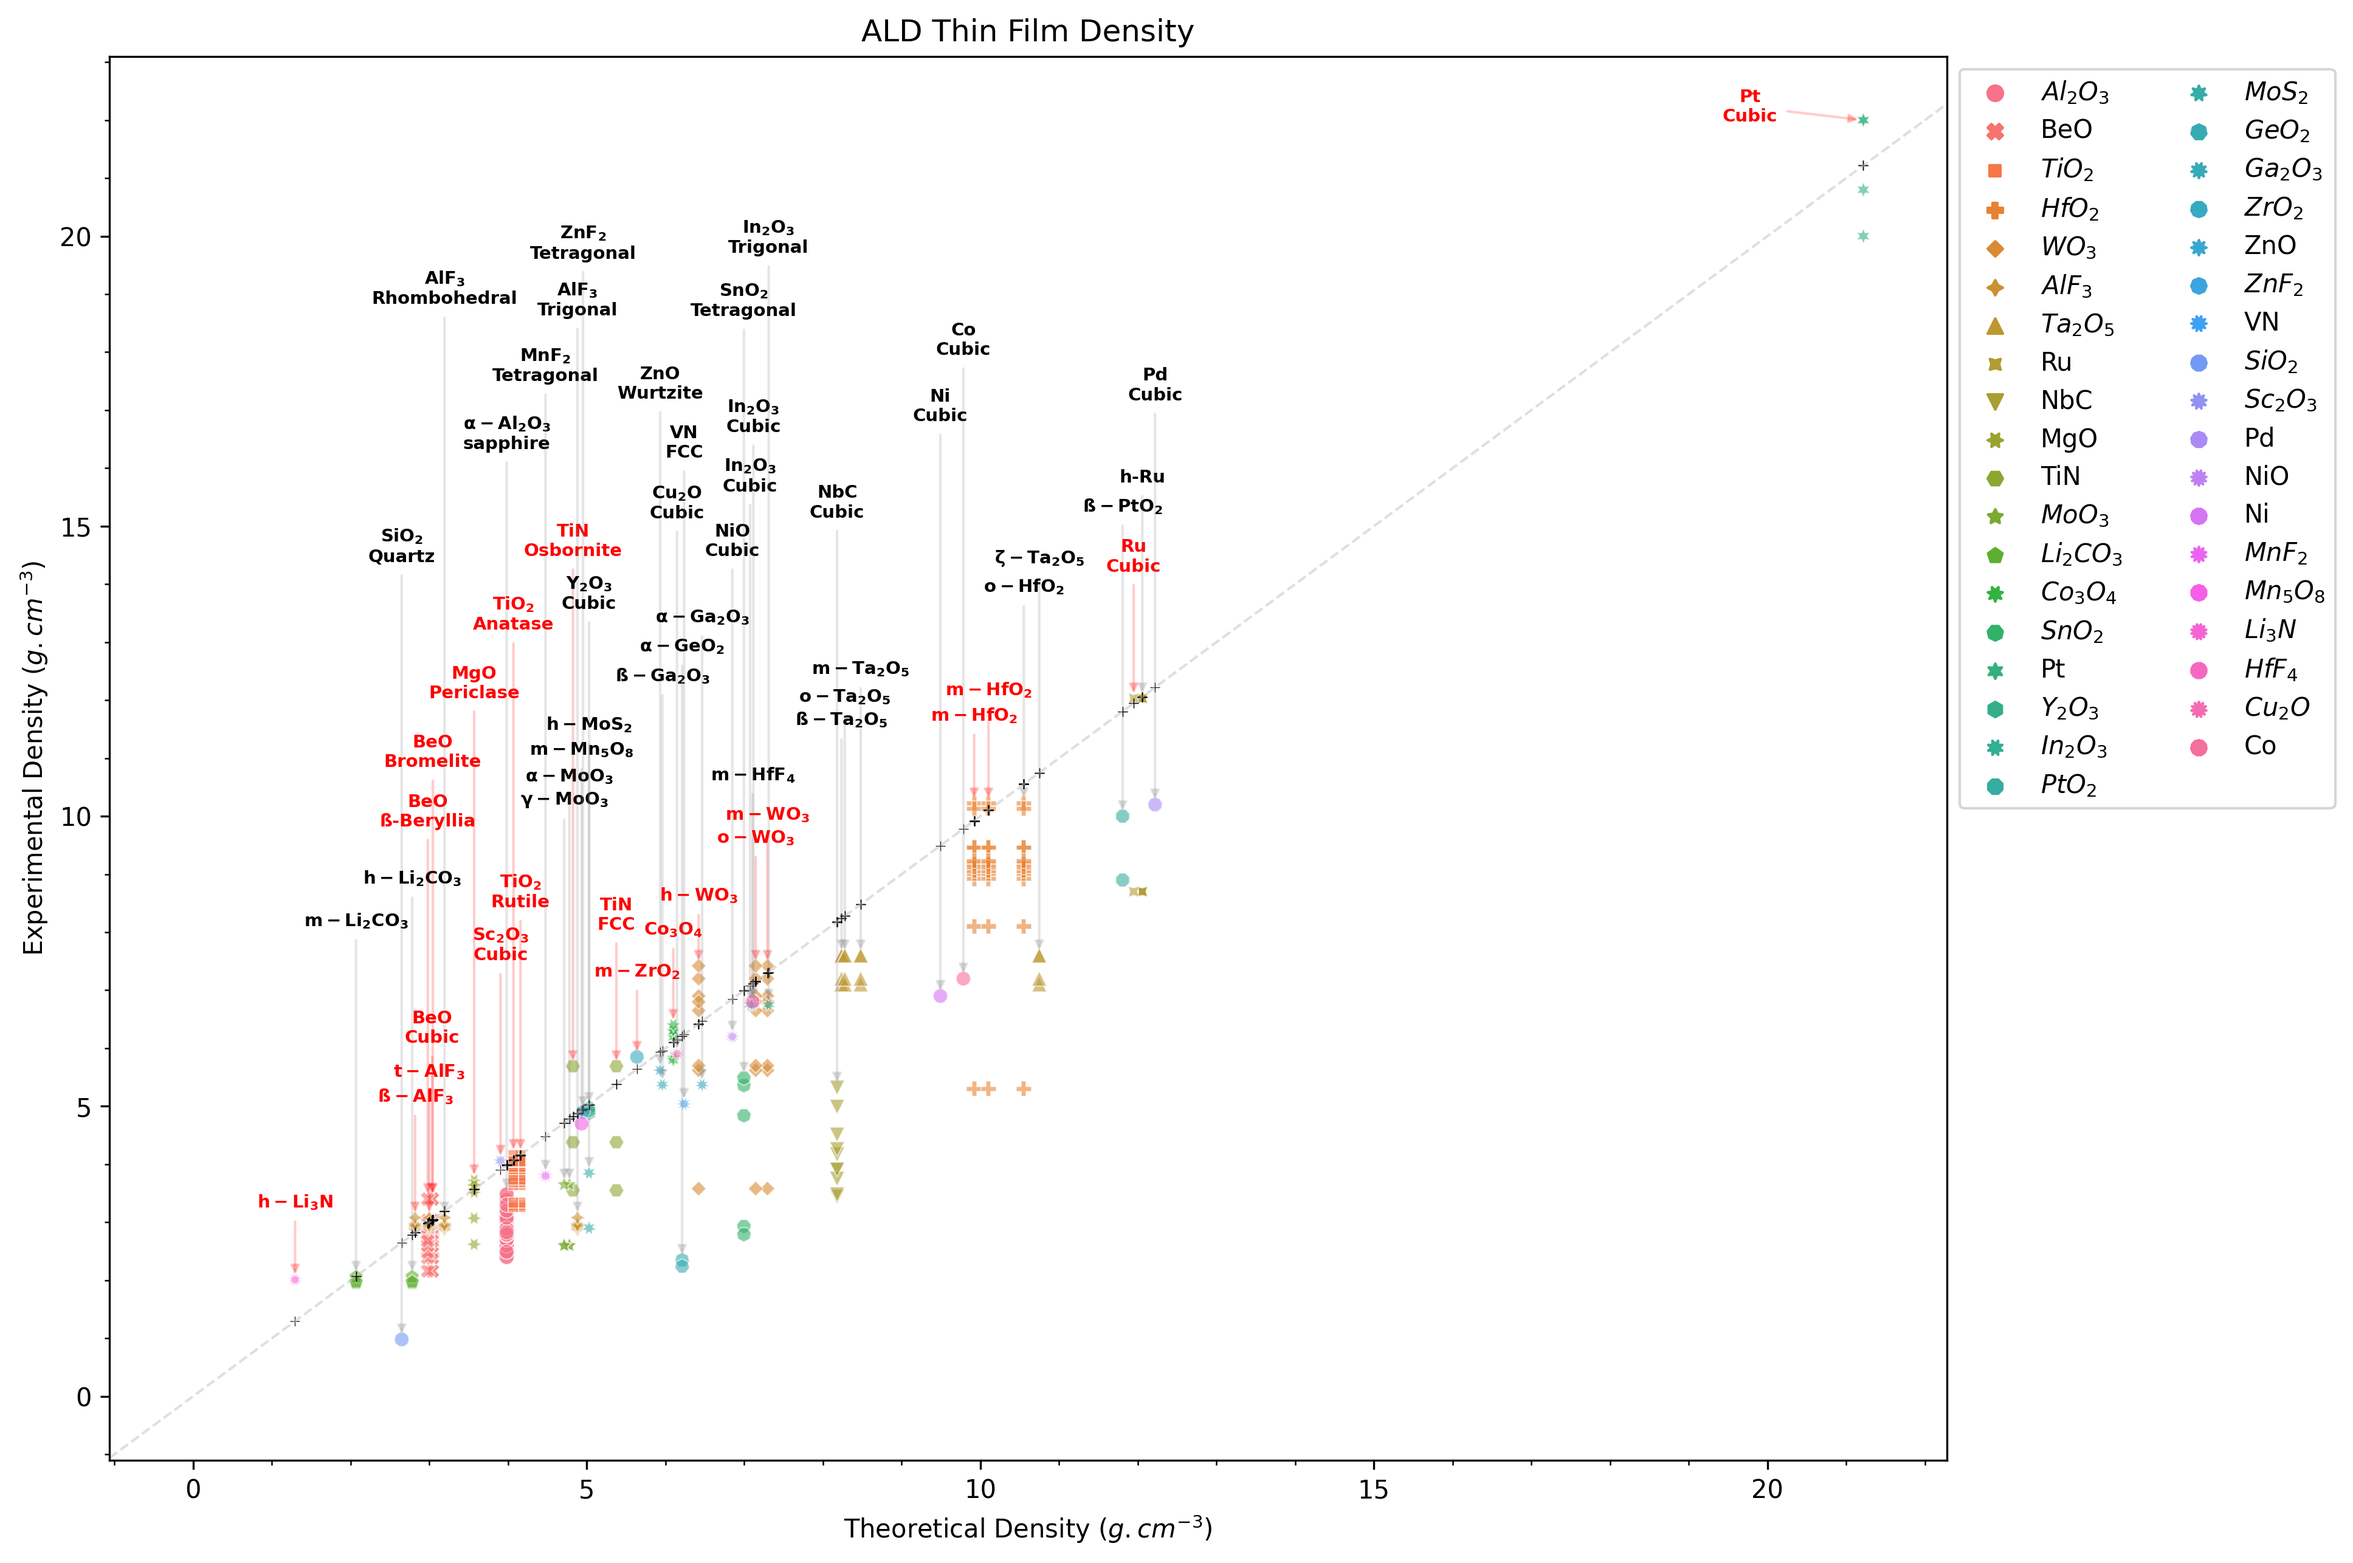
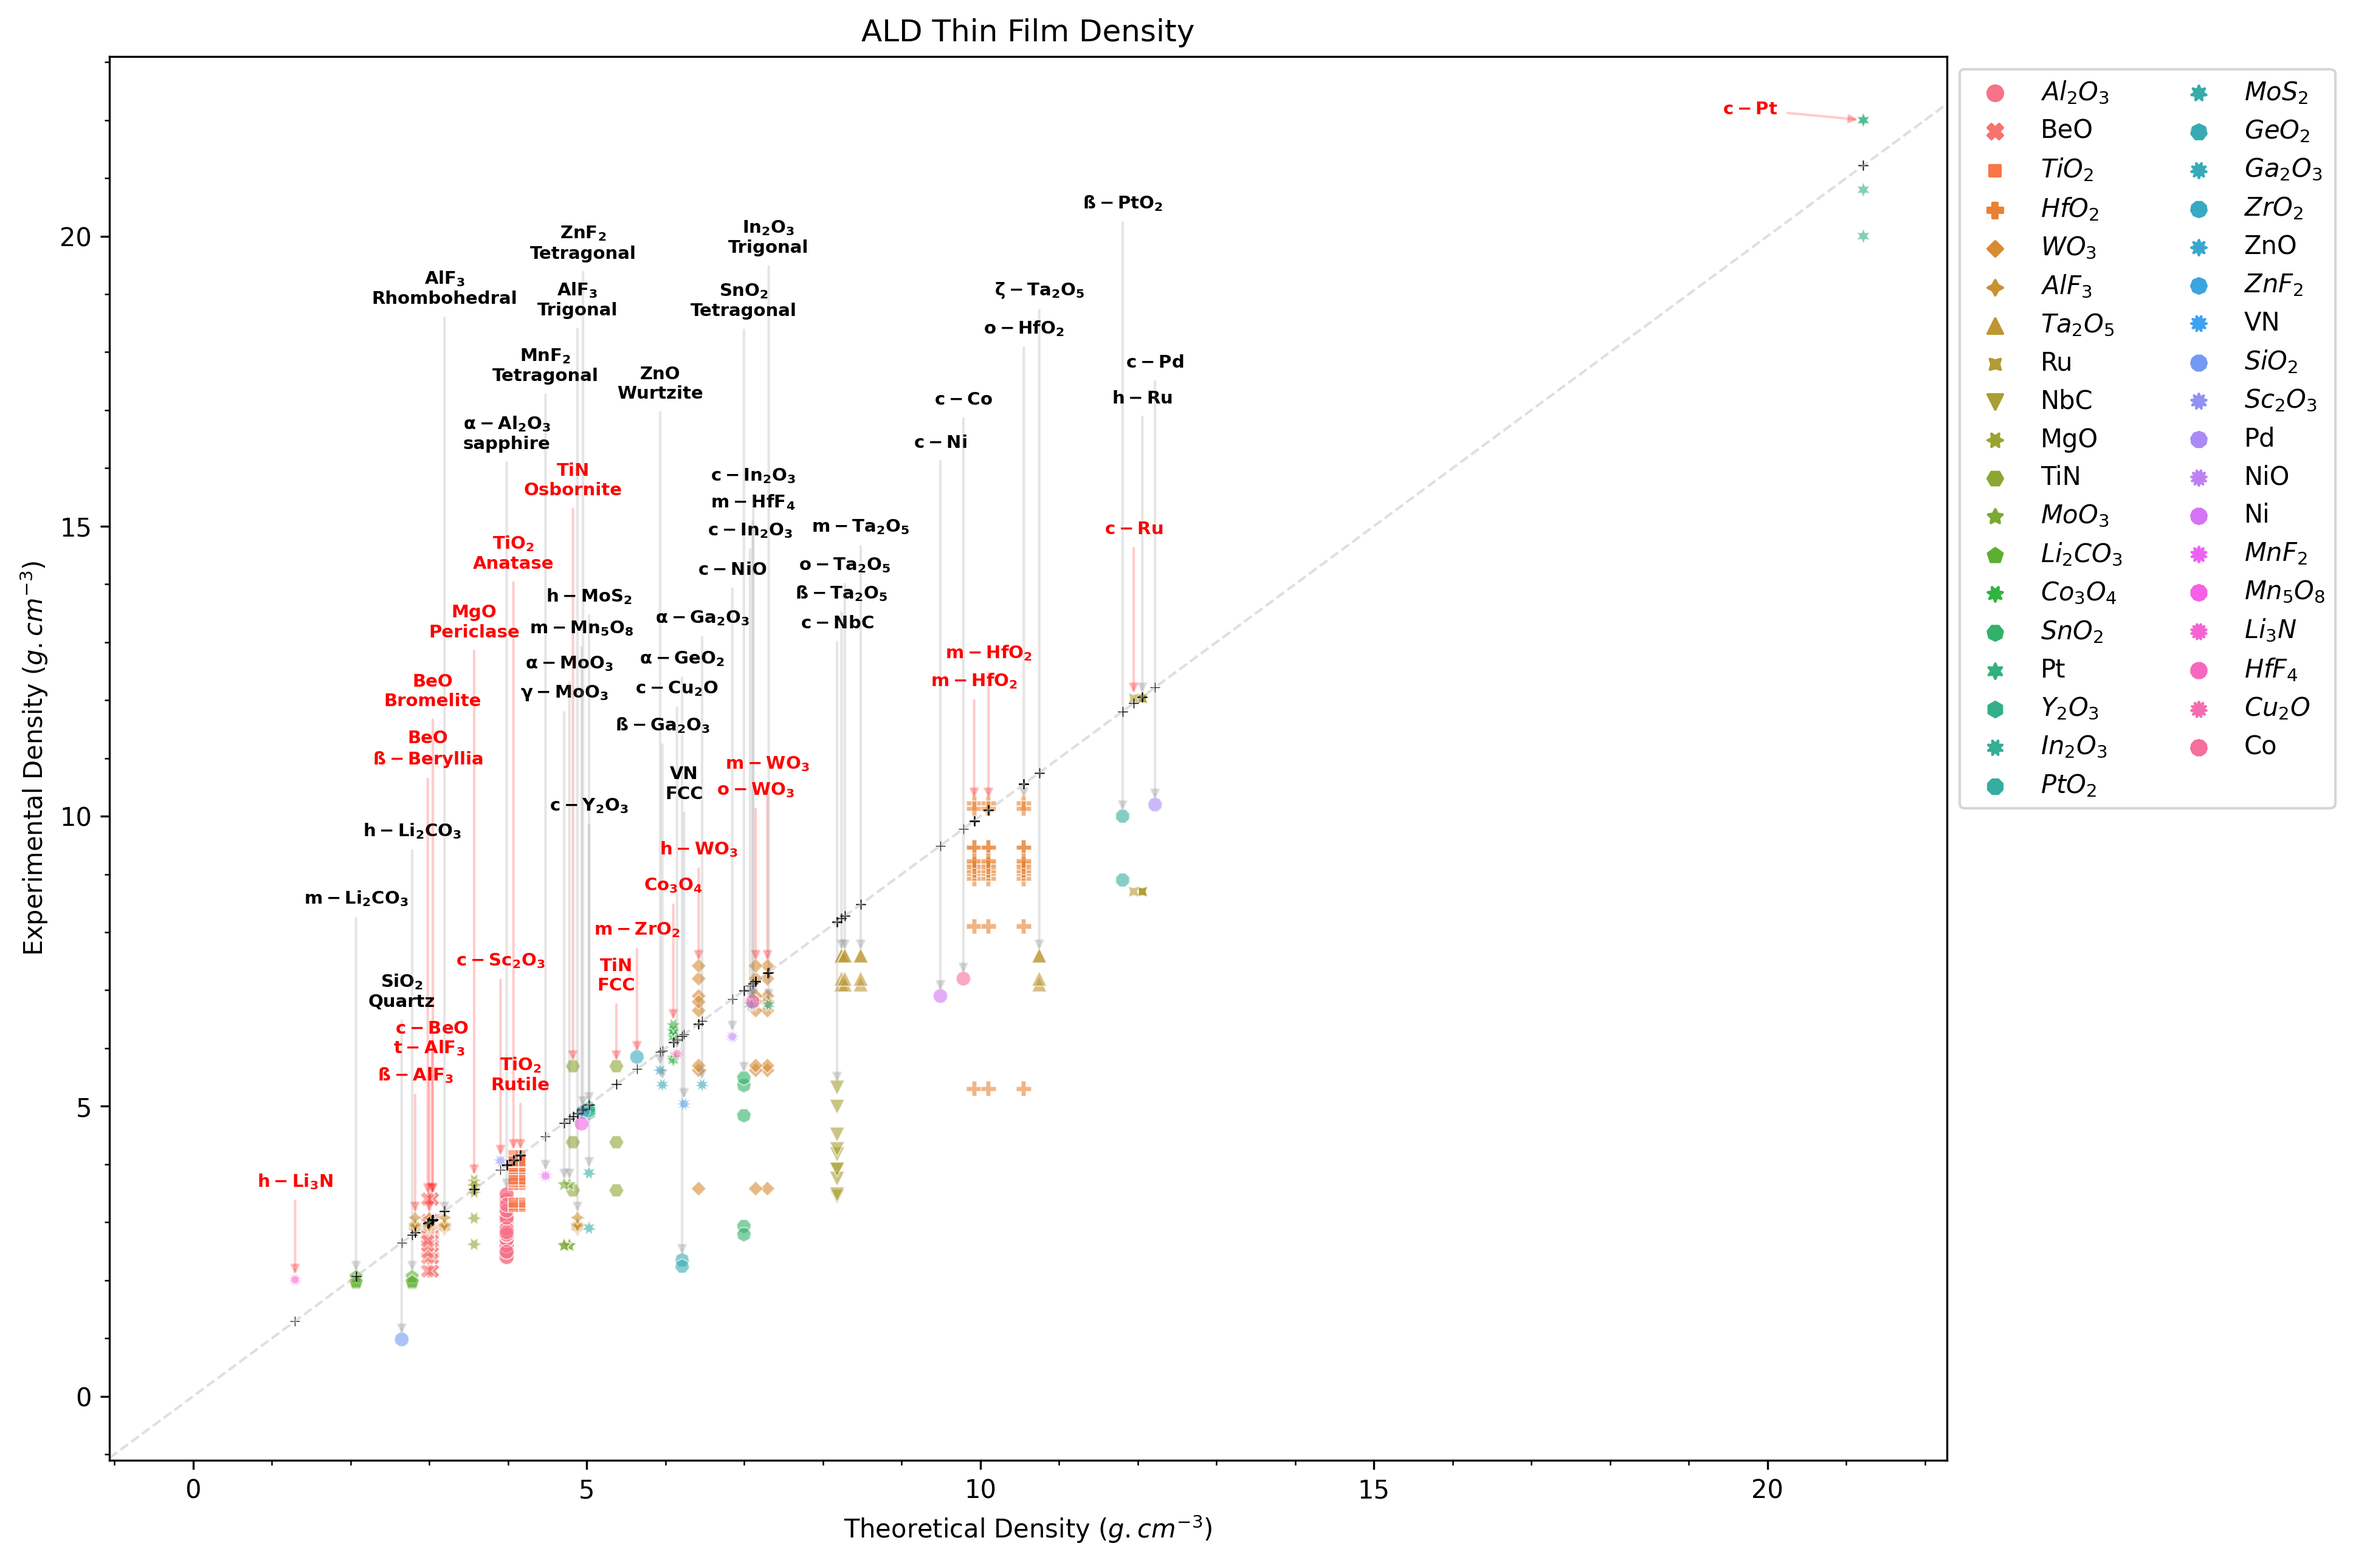
ET plot update labels

diff --git a/scripts/ald-density-ET.py b/scripts/ald-density-ET.py
@@ -169,10 +169,11 @@ def create_latex_labels(label, bold=False):
     for lbl in lbls:
         lbl = str(lbl)
         nlbl =  re.sub(r'([a-zA-Z])(\d+)', r'\1_{\2}',lbl)
+        nodash = not("-" in lbl)
         if bold:
-            nlbl = lbl if (lbl==nlbl) else rf"$\mathbf{{{nlbl}}}$"
+            nlbl = lbl if (lbl==nlbl and nodash) else rf"$\mathbf{{{nlbl}}}$"
         else:
-            nlbl = lbl if (lbl==nlbl) else f"${nlbl}$"
+            nlbl = lbl if (lbl==nlbl and nodash) else f"${nlbl}$"
         new_label.append(nlbl)
 
     label = " ".join(new_label)
@@ -459,23 +460,23 @@ def plot_data1(df, x, y, z, point_labels,  **kwargs):
             # even = ~((seq_lbl_lines%2) or -1)
             if oneline:
                 # print(seq_lbl_lines, y_exp, pnt_lbl)
-                equ_x_offset=7.0 # x offset
-                scatter_shift=8
-                y_scatter = ((seq_lbl_lines+scatter_shift)%9*0.38)
+                equ_x_offset=5.0 # x offset
+                scatter_shift=2
+                y_scatter = ((seq_lbl_lines+scatter_shift)%9*0.45)
                 # flip_arrow=True
                 # pnt_scalor=2.0 # expansion scale
                 # y_line=1.0 # line to expand away from
-                equ_slope=2.0 # slope
+                equ_slope=1.0 # slope
 
                 # halign = "left"
                 valign = "bottom"
 
             elif sm_twolines:
                 # print(seq_lbl_lines, y_exp, pnt_lbl)
-                equ_x_offset=11.0 # x offset
-                scatter_shift=1
-                y_scatter = ((seq_lbl_lines+scatter_shift)%3*1.0)
-                equ_slope=2.0 # slope
+                equ_x_offset=4.0 # x offset
+                # scatter_shift=1
+                # y_scatter = ((seq_lbl_lines+scatter_shift)%3*1.0)
+                equ_slope=1.0 # slope
                 # pnt_scalor=2.5 # expansion scale
                 # y_line=0.5 # line to expand away from
                 # equ_slope=mmm # slope
@@ -533,21 +534,21 @@ def plot_data1(df, x, y, z, point_labels,  **kwargs):
 
             # even = ~((seq_lbl_lines%2) or -1)
             if oneline:
-                # print(seq_lbl_lines, y_exp, pnt_lbl)
-                equ_y_offset=1.35 # x offset
-                scatter_shift=1
-                y_scatter = ((seq_lbl_lines+scatter_shift)%5 * 0.25)
+                print(seq_lbl_lines, y_exp, pnt_lbl)
+                equ_y_offset=2.25 # x offset
+                scatter_shift=4
+                y_scatter = ((seq_lbl_lines+scatter_shift)%5 * 0.3)
                 # slider=1.0
                 # pnt_scalor=1.0 # expansion scale
                 # x_line=1.0 # line to expand away from
-                equ_slope=0.97 # slope
+                equ_slope=1.0 # slope
 
                 # halign = "right"
                 valign = "bottom"
 
             elif sm_twolines:
-                print(seq_lbl_lines, y_exp, pnt_lbl) # ON
-                equ_y_offset=3.5 # x offset
+                # print(seq_lbl_lines, y_exp, pnt_lbl) # ON
+                equ_y_offset=1.75 # x offset
                 scatter_shift = 2
                 y_scatter = ((seq_lbl_lines+scatter_shift)%3 * 0.7)
                 # slider=5.0
@@ -560,7 +561,7 @@ def plot_data1(df, x, y, z, point_labels,  **kwargs):
                 valign = "bottom"
 
             elif lg_twolines:
-                equ_y_offset=8.7 # x offset
+                equ_y_offset=9.75 # x offset
                 scatter_shift = 4
                 y_scatter = ((seq_lbl_lines+scatter_shift)%5 * 1.0)
                 # pnt_scalor=2.5 # expansion scale
